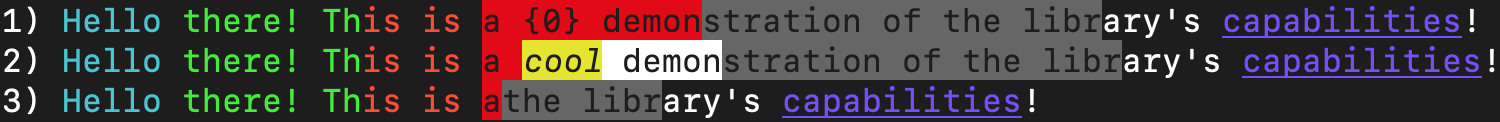
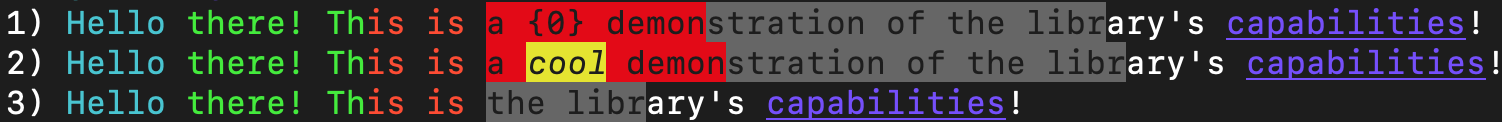
Fixed showcase

diff --git a/README.rst b/README.rst
@@ -4,13 +4,13 @@ Strings that ignore part of themselves.
 
 .. code-block:: py
 
-    from ghostr import AnsiSGRGhoStr as gstr
+    from ghostr import ANSISGRGhoStr as gstr
 
     test = '\x1b[38;5;6mHello\x1b[38;5;10m there! Th\x1b[38;5;9mis is \x1b[7ma {0} demon\x1b[90mstration of the libr\x1b[0mary\'s \x1b[38;5;12m\x1b[4mcapabilities\x1b[0m!'
     print('1)', test)
     test = gstr(test).format('\x1b[3m\x1b[38;5;11mcool')
     print('2)', test)
-    test = gstr(test)[:22] + gstr(test)[45:]
+    test = gstr(test)[:21] + gstr(test)[45:]
     print('3)', test)
 
 Installing
